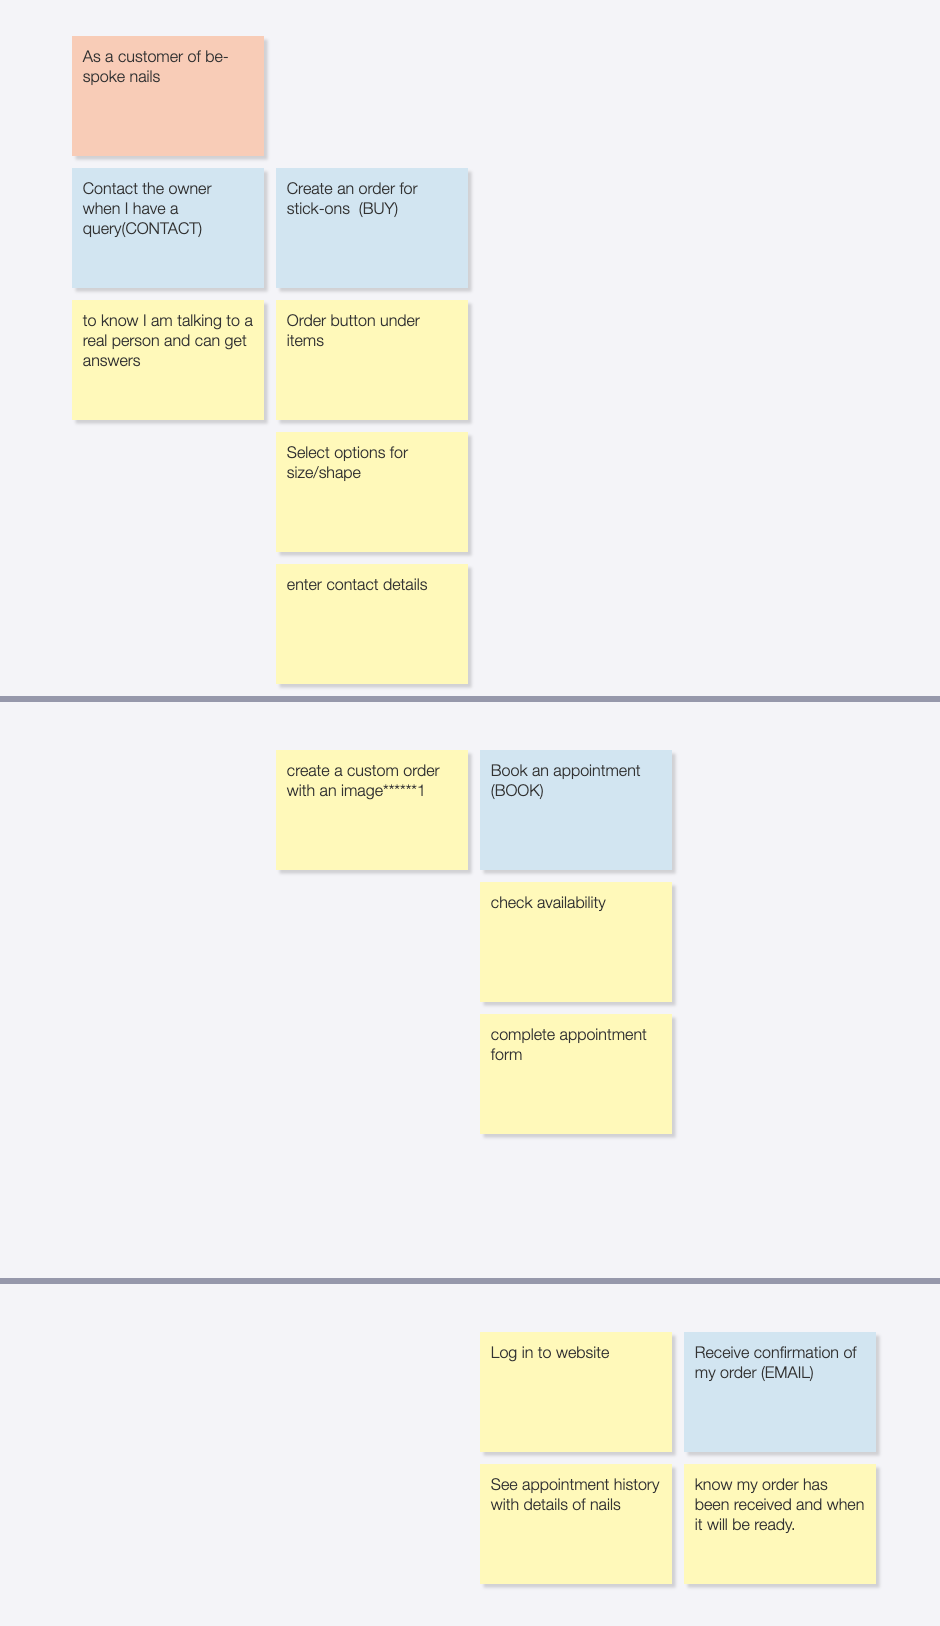
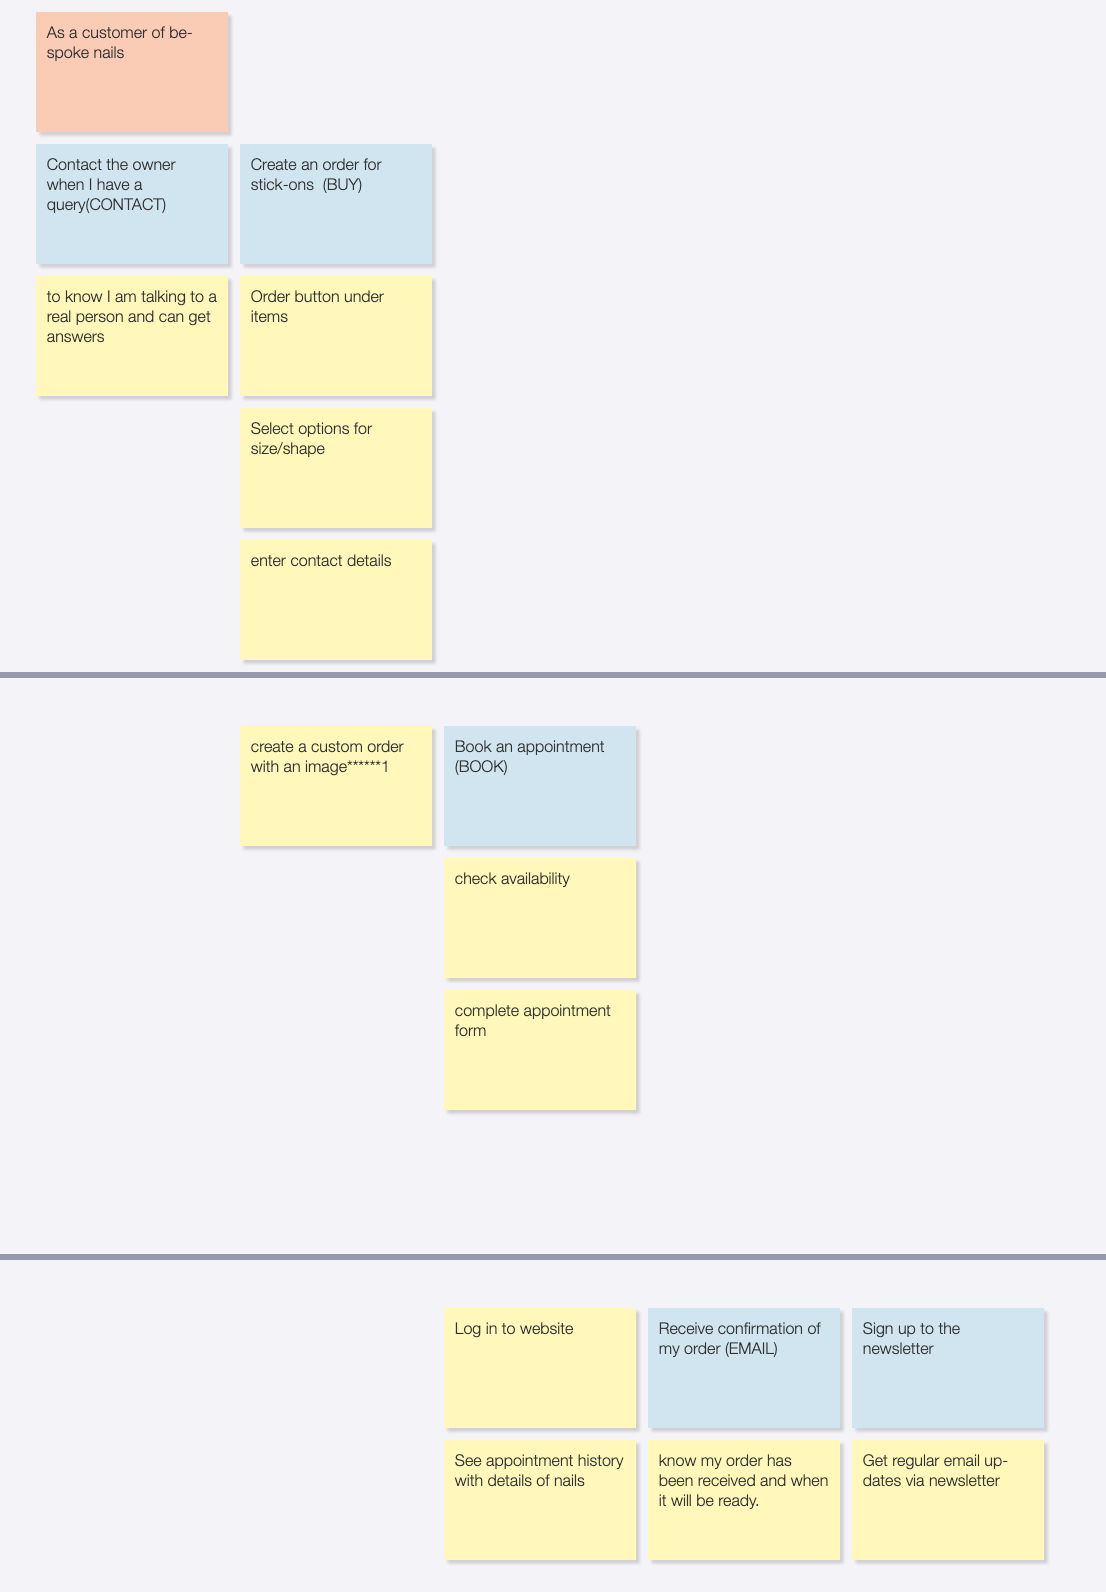
updated user stories and formatting

Changed region(s): [[0.0, 0.0, 1.0, 0.7079], [0.0, 0.7695, 1.0, 0.9849]]

diff --git a/README.md b/README.md
@@ -1,6 +1,7 @@
-# MERNproject-partA
+# Bespoke Nails (MERN application): Part A
 
 Developers: **Jade Tyrer & Cassandra Zara**
+
 Part A of final Coder Academy project - documentation for MERN app
 
 ## Outline 
